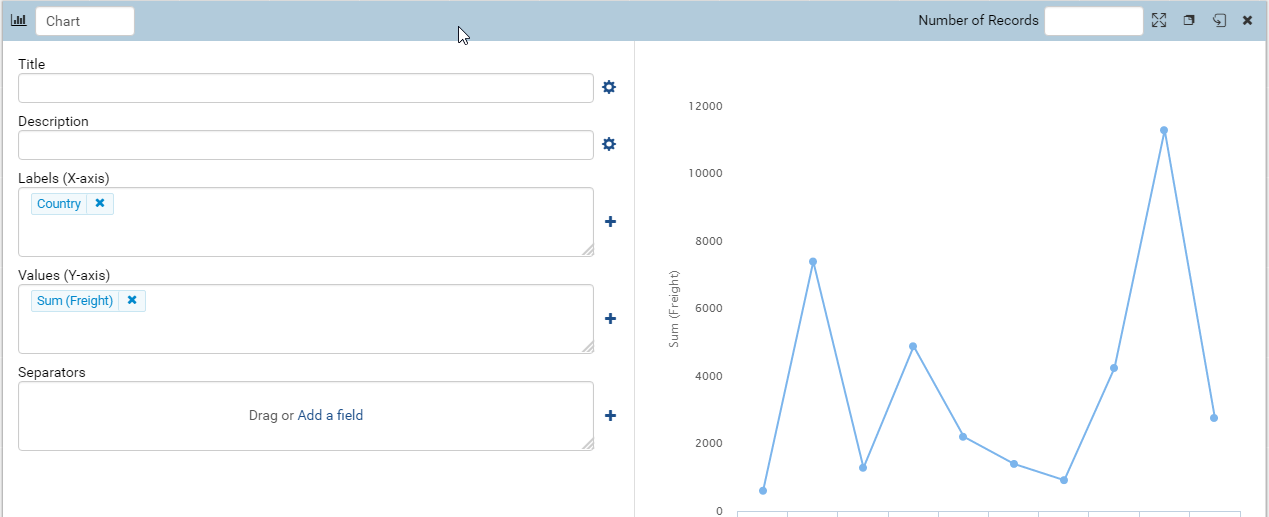
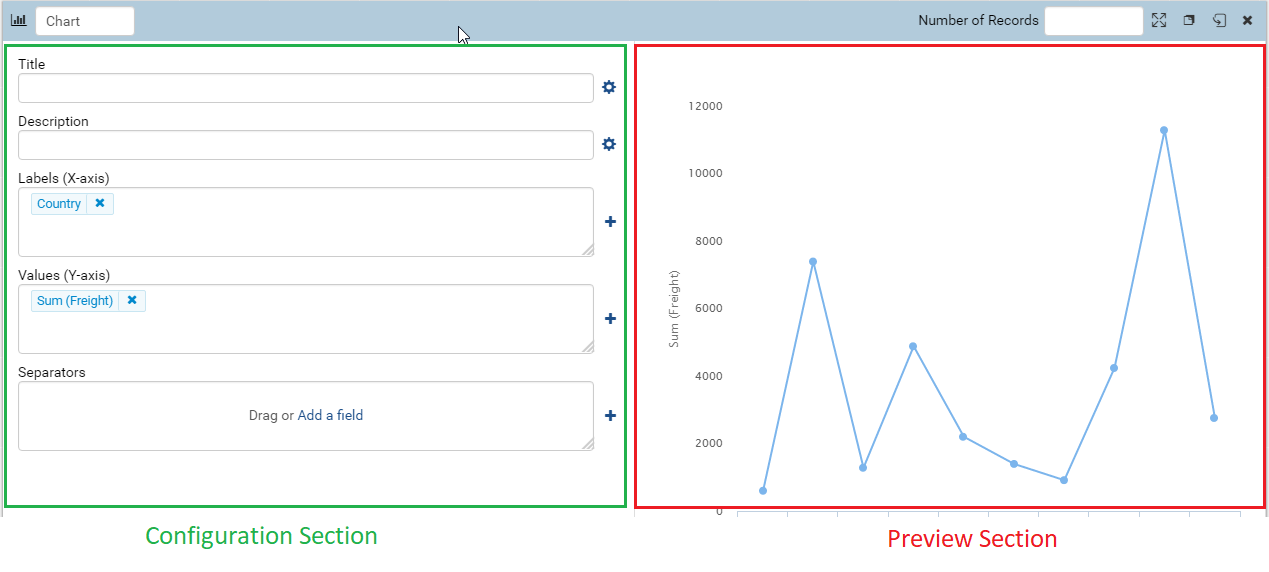
Update hide Preview section

diff --git a/ui/doc_report_designer_report_part_menu.rst b/ui/doc_report_designer_report_part_menu.rst
@@ -23,8 +23,18 @@ can be accessed by hovering over the report part near the top. The menu
 looks like what is displayed below:
 
 .. figure:: /_static/images/ReportPartMenu1.png
+   :align: center
+   :width: 1030px
 
-   Report Part Menu
+   Report Part Menu has both Configuration and Preview sections
+
+Preview section can be shown or hidden by tick or untick on **Show Preview section in Configuration Mode** check box in Setting > Data Setup > Advanced Settings > Other tab, see :ref:`Advanced_Settings_Others` for more details.
+
+.. figure:: /_static/images/ReportPartMenu_NoReview.png
+   :align: center
+   :width: 1030px
+
+   Report Part Menu has only Configuration section
 
 The report part menu can also be accessed by right clicking on the
 report part to bring up the same offered options.

diff --git a/ui/doc_advanced_settings.rst b/ui/doc_advanced_settings.rst
@@ -202,6 +202,8 @@ Rename data source categories
    #. Continue to change more category names
    #. Click Save button at the top to save the whole list.
 
+.. _Advanced_Settings_Others:
+
 Update Others Settings
 -----------------------
 
